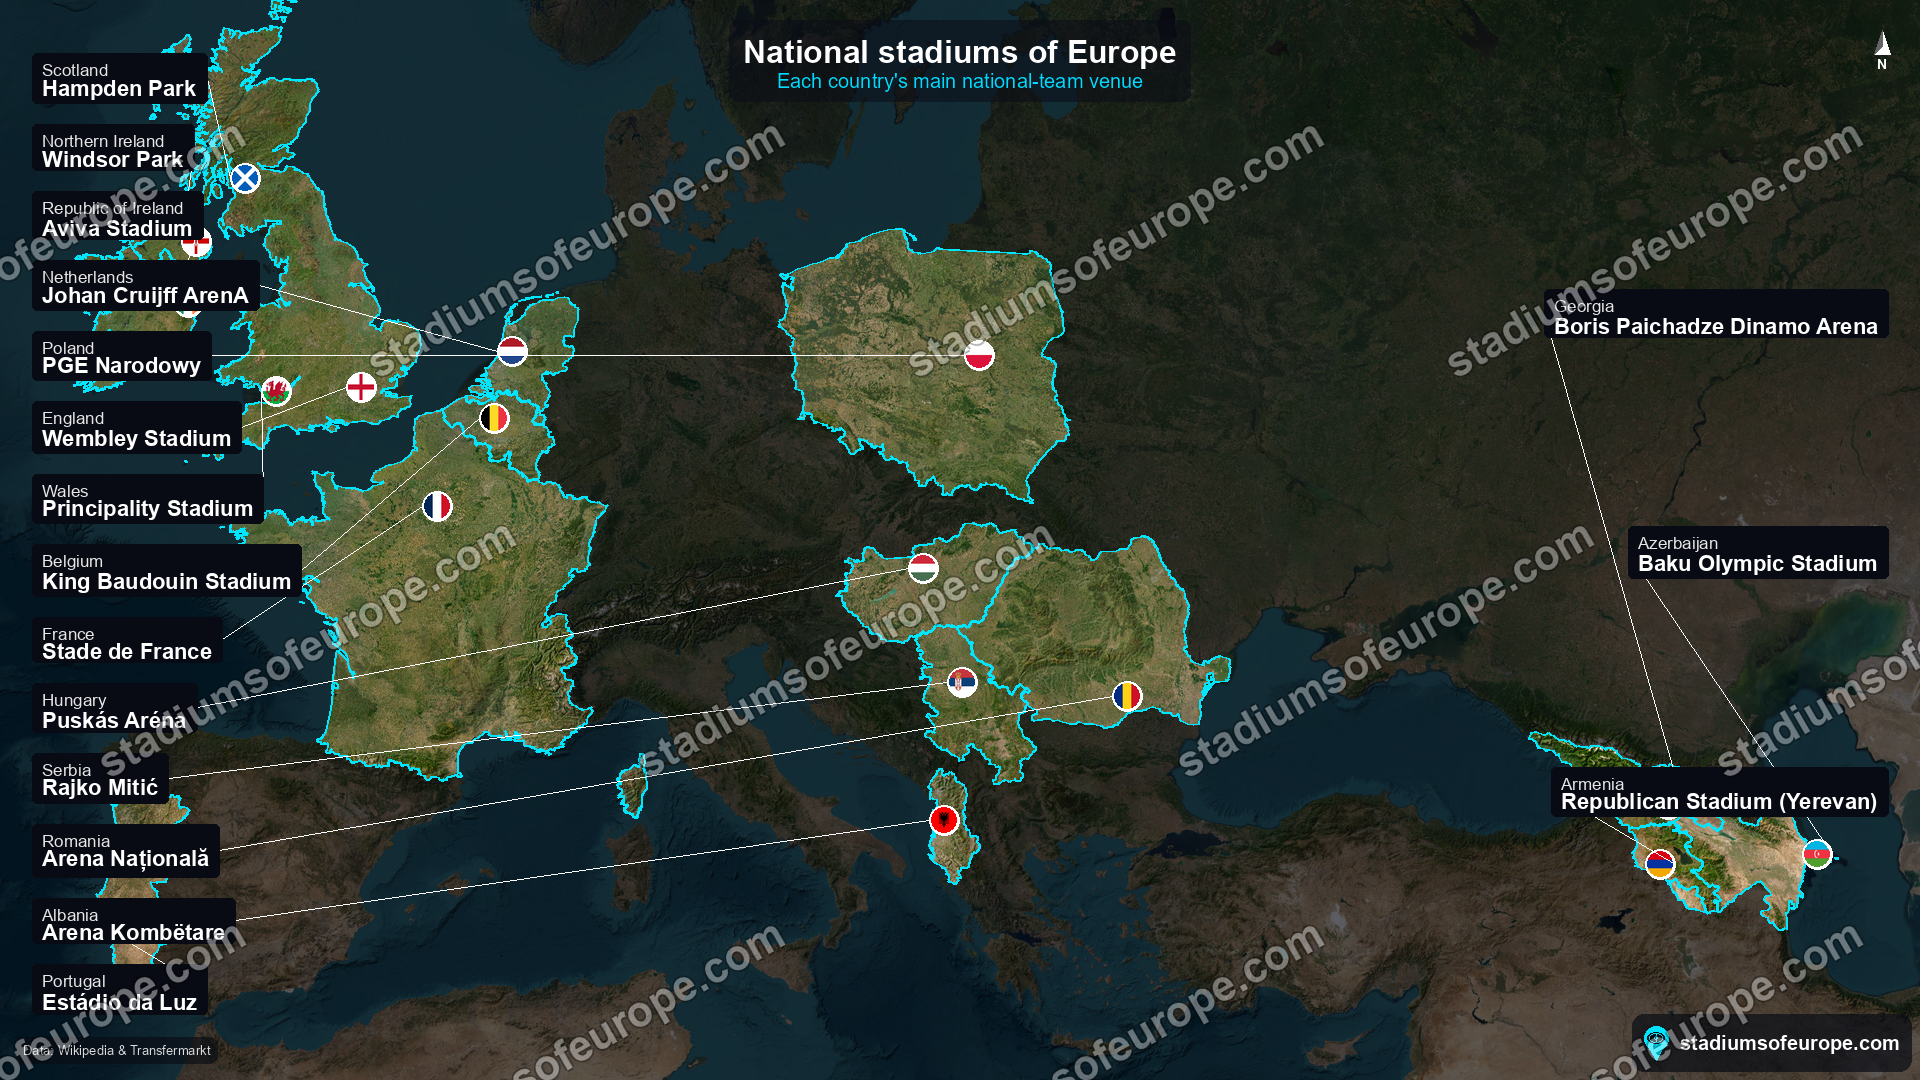
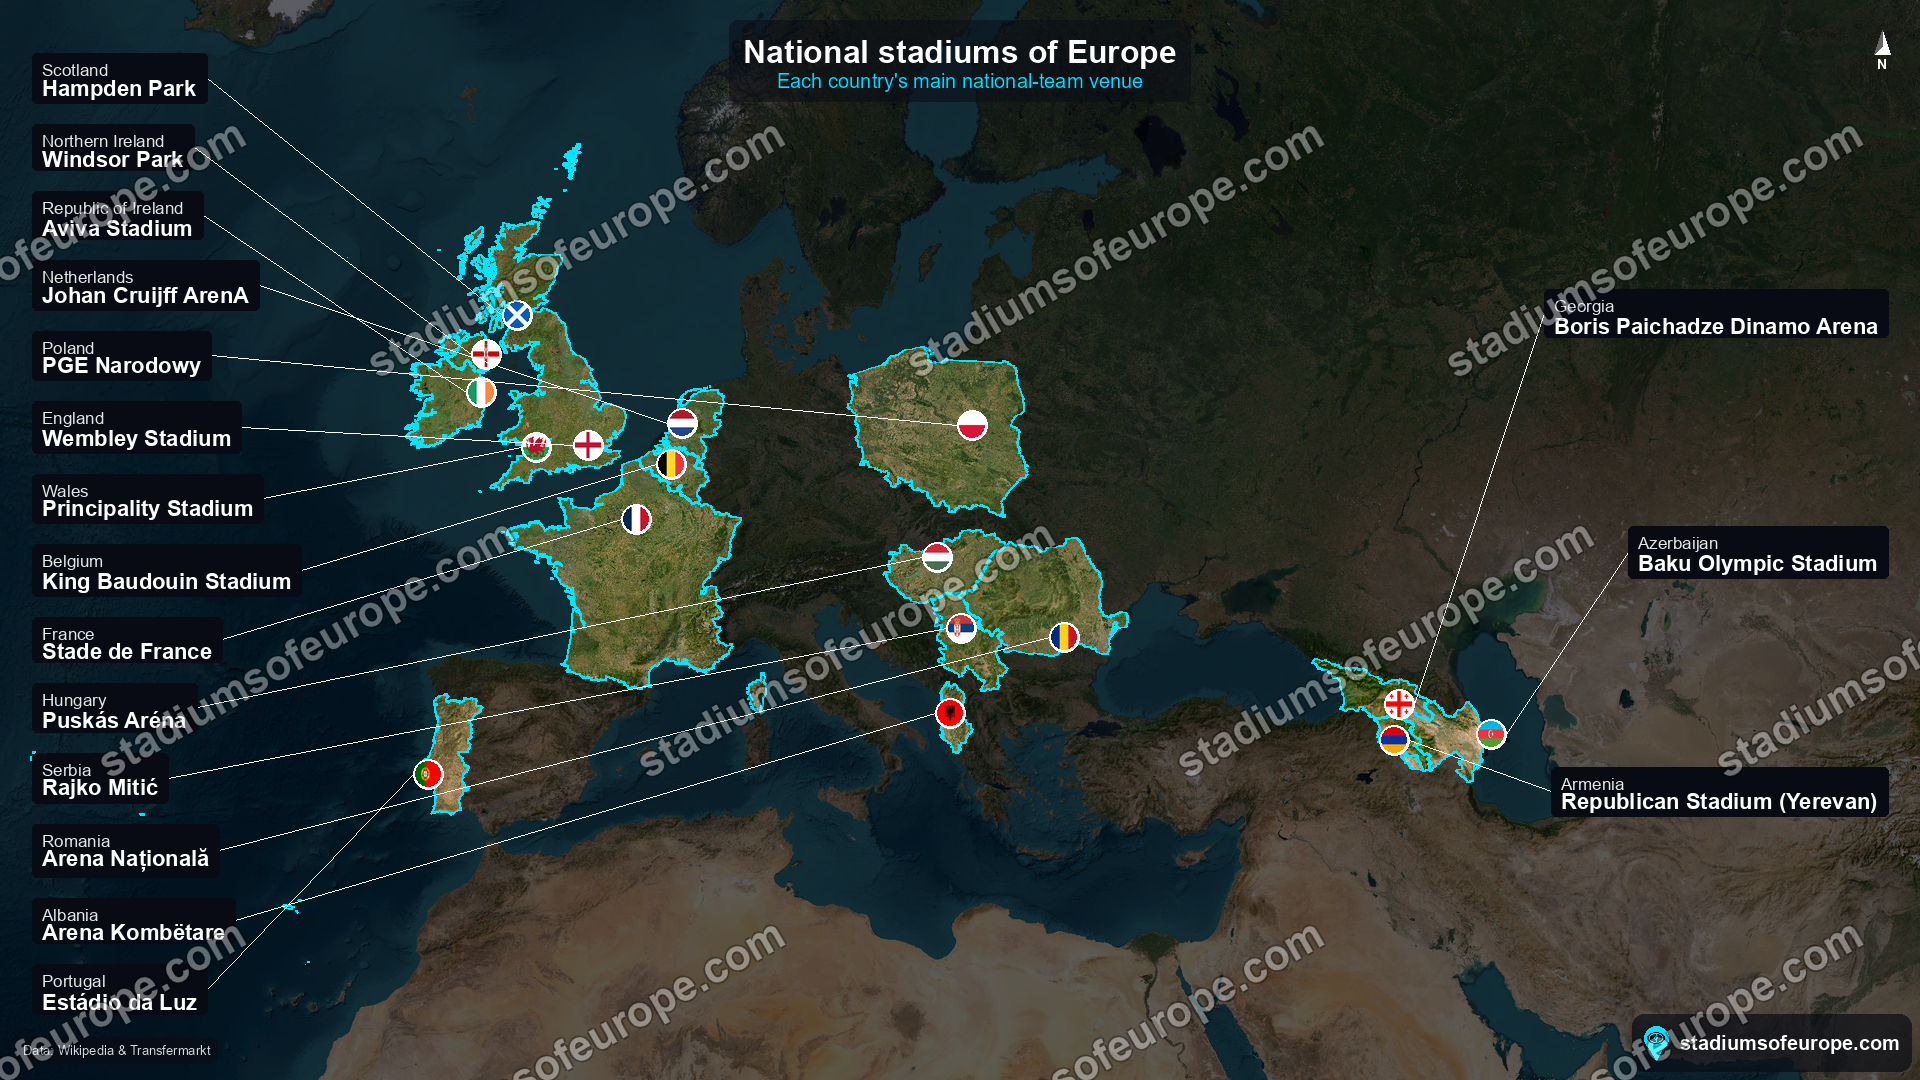
Reserve label gutters in the frame; Salerno bid points at the redevelopment
Labels sit in columns hugging the left/right margins, so when the data reaches
the frame edge (Italy hard against the left side on the Euro 2032 map) the pills
land on the badges. Wrapping alone could not fix that - no vertical placement
saves a pill whose column overlaps the badge field. The frame is now widened so
the outer ~19% of each side stays free of markers, giving the columns a clean
gutter. Applies whenever labels are on; aspect is preserved.

Data: Salerno's Euro 2032 candidacy moved from the existing Arechi stadium to
the 'New Arechi Redevelopment' project (35,000 capacity), which is what the bid
is actually for - consistent with Florence, Cagliari and Roma, which already
point at their development records.

Regenerated all tournament + insight PNGs (94 tests pass).

diff --git a/italianstadia/italiastadiaapp/views.py b/italianstadia/italiastadiaapp/views.py
@@ -2462,6 +2462,20 @@ def _merc_y_inv(y):
     return math.degrees(math.atan(math.sinh(math.pi * (1 - 2 * y))))
 
 
+def _label_gutter_bbox(bbox, frac=0.19):
+    """Widen the frame so the outer `frac` of each side stays empty of markers.
+
+    Labels are laid out in columns hugging the left/right margins, so if the data
+    reaches the edge of the frame (e.g. Italy sitting hard against the left side on
+    the Euro 2032 map) the pills land on top of the badges. Reserving a gutter is
+    the only fix that always works: no vertical placement can save a pill whose
+    column overlaps the badge field. Zooms out slightly; aspect is restored by
+    _expand_bbox_to_aspect afterwards."""
+    lon_min, lat_min, lon_max, lat_max = bbox
+    grow = (lon_max - lon_min) * (frac / max(0.1, 1 - 2 * frac))
+    return (lon_min - grow, lat_min, lon_max + grow, lat_max)
+
+
 def _expand_bbox_to_aspect(bbox, W, H):
     """Expand bbox symmetrically so its Mercator aspect ratio matches W:H.
     This ensures the exported image isn't geographically stretched."""
@@ -3999,6 +4013,9 @@ def _compose_export_image(params):
         bbox = _cover_bbox_to_aspect(tb, W, H)
     else:
         raw_bbox = _bbox_with_padding(stadiums)
+        if params.get("labels"):
+            # Keep the left/right label columns clear of the markers.
+            raw_bbox = _label_gutter_bbox(raw_bbox)
         bbox = _expand_bbox_to_aspect(raw_bbox, W, H)
 
     # Inset grounds + zoom area: a user-drawn box (image fractions over the map)
